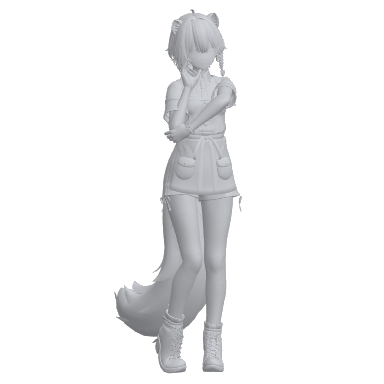
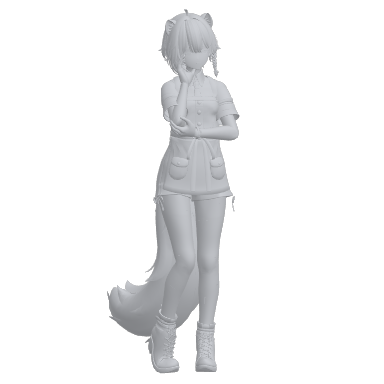
KTBPoses 2.1.3：同梱ポーズ 6 つの修正（ひざに手・指カメラ・ひじを支えるポーズ）
- ひざに手・指カメラ・あごピース・口元に手・頬杖・考え中の画像を、新しいポーズで作り直し
- 同梱のポーズの説明（あごピース・指カメラ・ひざに手）を新しい形に合わせて修正
- 更新履歴に 2.1.3 を追加

Changed region(s): [[0.2812, 0.0, 0.625, 0.9688]]

diff --git a/docs/changelog.md b/docs/changelog.md
@@ -1,5 +1,15 @@
 # 更新履歴
 
+## 2.1.3（2026-11-14）
+
+同梱のポーズを 6 つ直しました（[同梱のポーズ](poses.md)）。
+
+- ひざに手：前かがみをゆるめ（体の傾きを 49° から 36° に）、ひざを曲げて、手がひざに乗るようにしました
+- 指カメラ：両手の L の指先どうしが合わさって、閉じた枠になるようにしました
+- 頬杖・口元に手・あごピース・考え中：ひじを支える側の腕が体の前に浮かず、ひじが脇腹のあたりに来るようにしました
+
+アニメーションは、更新するだけで新しくなります。アップロードし直してください。メニューのアイコンも新しくするには、導入済みのアバターで [導入し直す](install-avatar.md#reinstall) を押してからアップロードしてください。[同梱ポーズを体型に合わせ直して](library.md#refit) いた場合は、もう一度合わせ直してください。
+
 ## 2.1.2（2026-11-13）
 
 - ポーズ中に段差を上り下りしたり着地したりしたときに、一瞬だけポーズが崩れて見えるのを直しました。アニメーションで動かす設定を、0.1 秒ごとではなく毎フレームかけ直します。着地で戻されても同じフレームのうちに戻るので、崩れは画面に出ません（[トラッキングをかけ直す理由](how-it-works.md#keep-tracking)）

diff --git a/docs/index.md b/docs/index.md
@@ -72,4 +72,4 @@ KTBPoses は、VRChat のアバターにポーズ集を入れるための Unity 
 3. 自分好みにする：[ポーズ集を作る](pose-sets.md)、[アニメーションを追加する](library.md)
 
 !!! note "このマニュアルについて"
-    KTBPoses 2.1.2 に対応しています。ポーズの画像は、ポーズの形が分かりやすいように、形と陰影だけで表示しています。
+    KTBPoses 2.1.3 に対応しています。ポーズの画像は、ポーズの形が分かりやすいように、形と陰影だけで表示しています。
